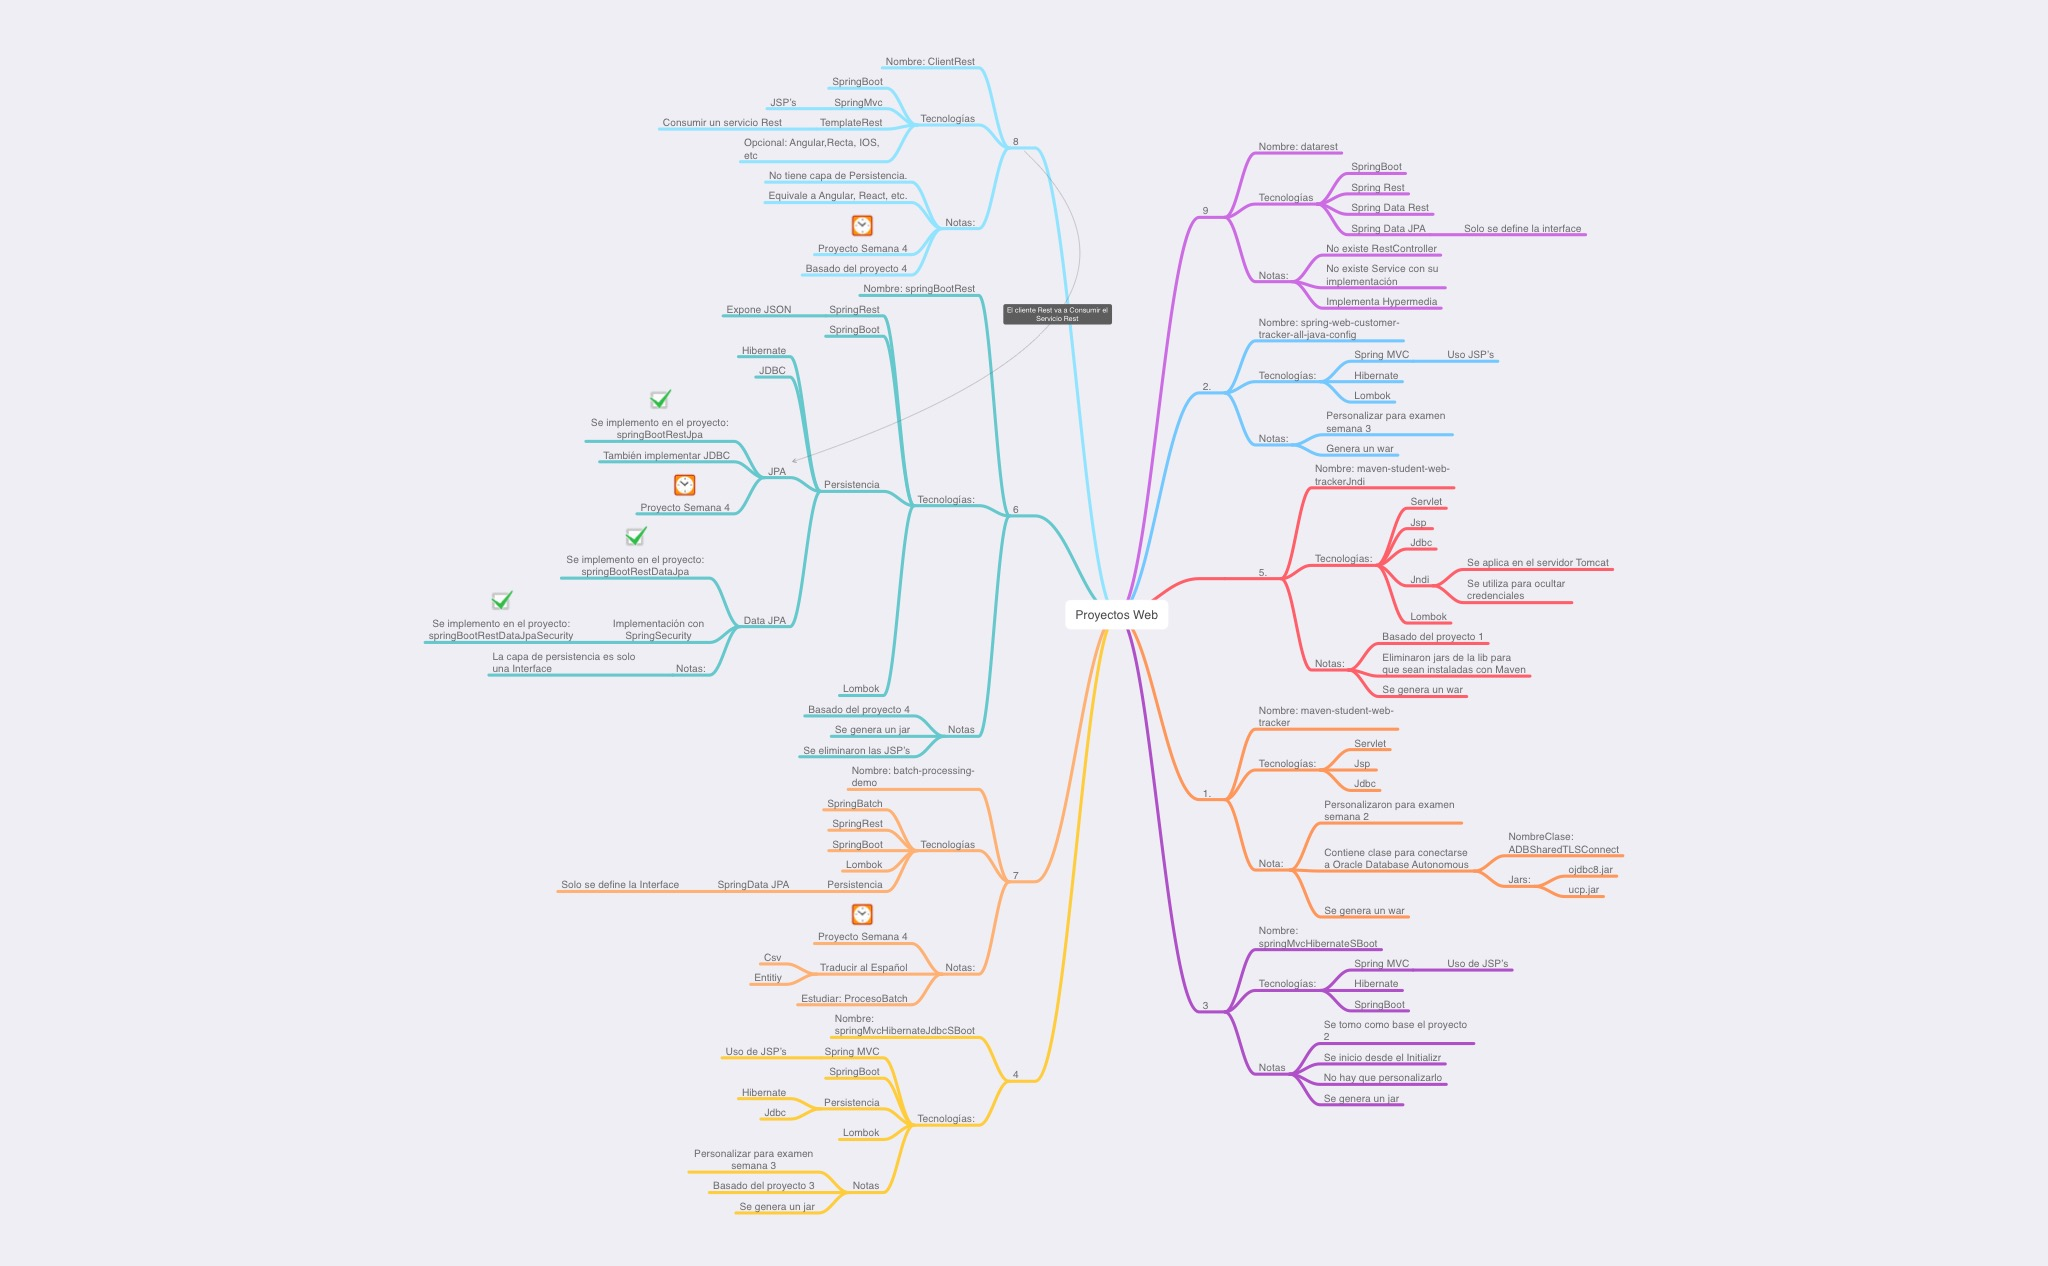
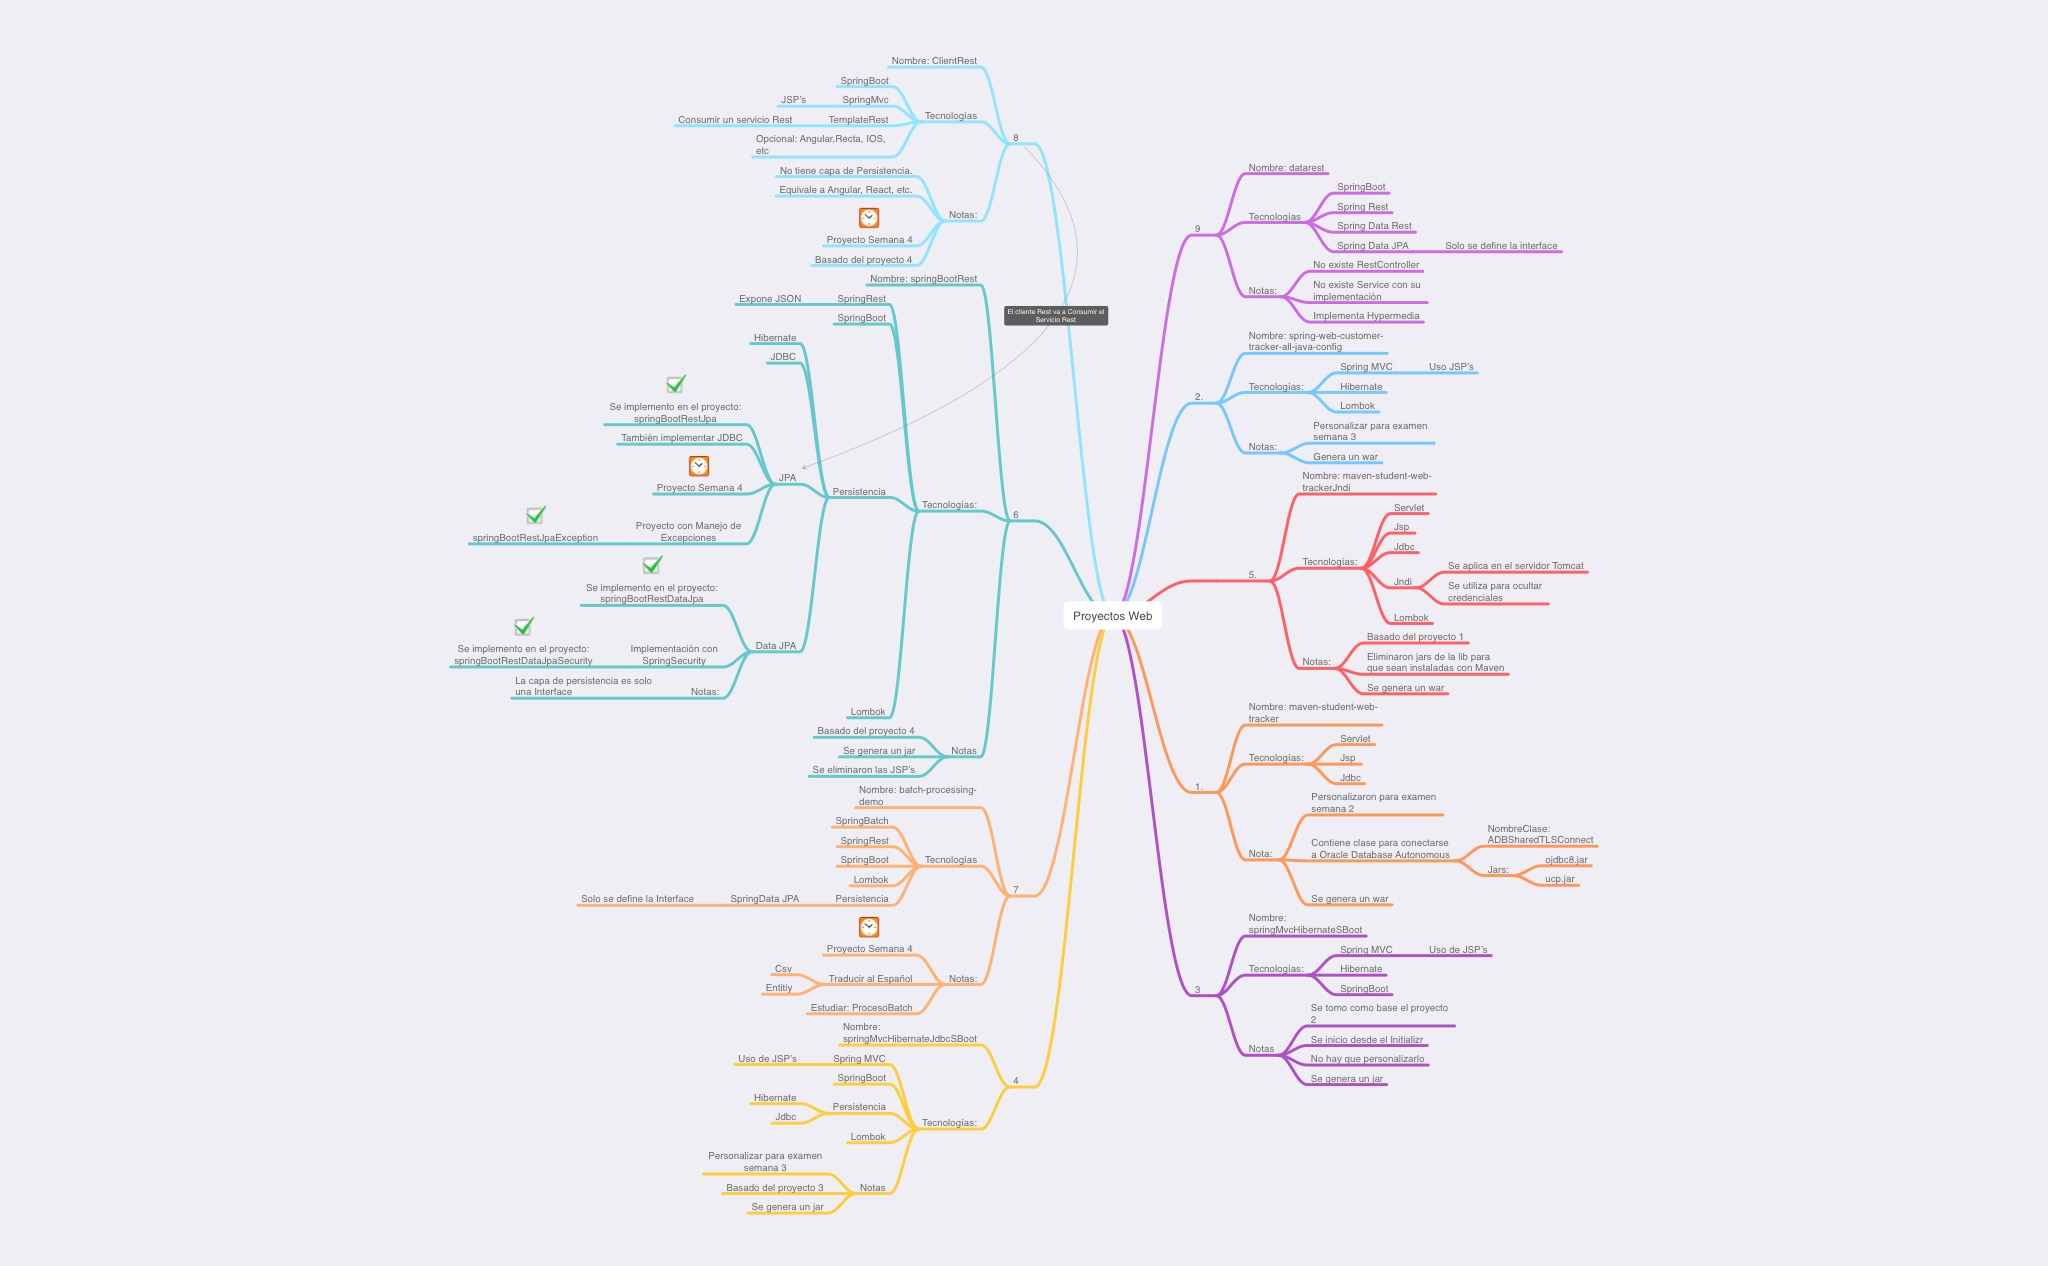
Refactoring proyecto Rest con manejo de Exceptions

Changed region(s): [[0.2188, 0.0308, 0.7812, 0.955]]

diff --git a/springBootRestJpaException/src/main/java/com/luv2code/springdemo/rest/CustomerRestController.java b/springBootRestJpaException/src/main/java/com/luv2code/springdemo/rest/CustomerRestController.java
@@ -1,4 +1,4 @@
-package com.luv2code.springdemo.controller;
+package com.luv2code.springdemo.rest;
 
 import java.util.List;
 
@@ -17,11 +17,12 @@ import org.springframework.web.bind.annotation.RequestParam;
 import org.springframework.web.bind.annotation.RestController;
 
 import com.luv2code.springdemo.entity.Customer;
+import com.luv2code.springdemo.exception.CustomerNotFoundException;
 import com.luv2code.springdemo.service.CustomerService;
 
 @RestController
-@RequestMapping("/rest")
-public class CustomerController {
+@RequestMapping("/api")
+public class CustomerRestController {
 
 	// need to inject our customer service
 	@Autowired

diff --git a/springBootRestJpaException/src/main/java/com/luv2code/springdemo/exception/CustomerRestExceptionHandler.java b/springBootRestJpaException/src/main/java/com/luv2code/springdemo/exception/CustomerRestExceptionHandler.java
@@ -1,4 +1,4 @@
-package com.luv2code.springdemo.controller;
+package com.luv2code.springdemo.exception;
 
 import org.springframework.http.HttpStatus;
 import org.springframework.http.ResponseEntity;

diff --git a/springBootRestJpaException/src/main/java/com/luv2code/springdemo/exception/CustomerNotFoundException.java b/springBootRestJpaException/src/main/java/com/luv2code/springdemo/exception/CustomerNotFoundException.java
@@ -1,4 +1,4 @@
-package com.luv2code.springdemo.controller;
+package com.luv2code.springdemo.exception;
 
 public class CustomerNotFoundException extends RuntimeException {
 	

diff --git a/springBootRestJpaException/src/main/java/com/luv2code/springdemo/exception/CustomerErrorResponse.java b/springBootRestJpaException/src/main/java/com/luv2code/springdemo/exception/CustomerErrorResponse.java
@@ -1,4 +1,4 @@
-package com.luv2code.springdemo.controller;
+package com.luv2code.springdemo.exception;
 
 import lombok.AllArgsConstructor;
 import lombok.Data;
